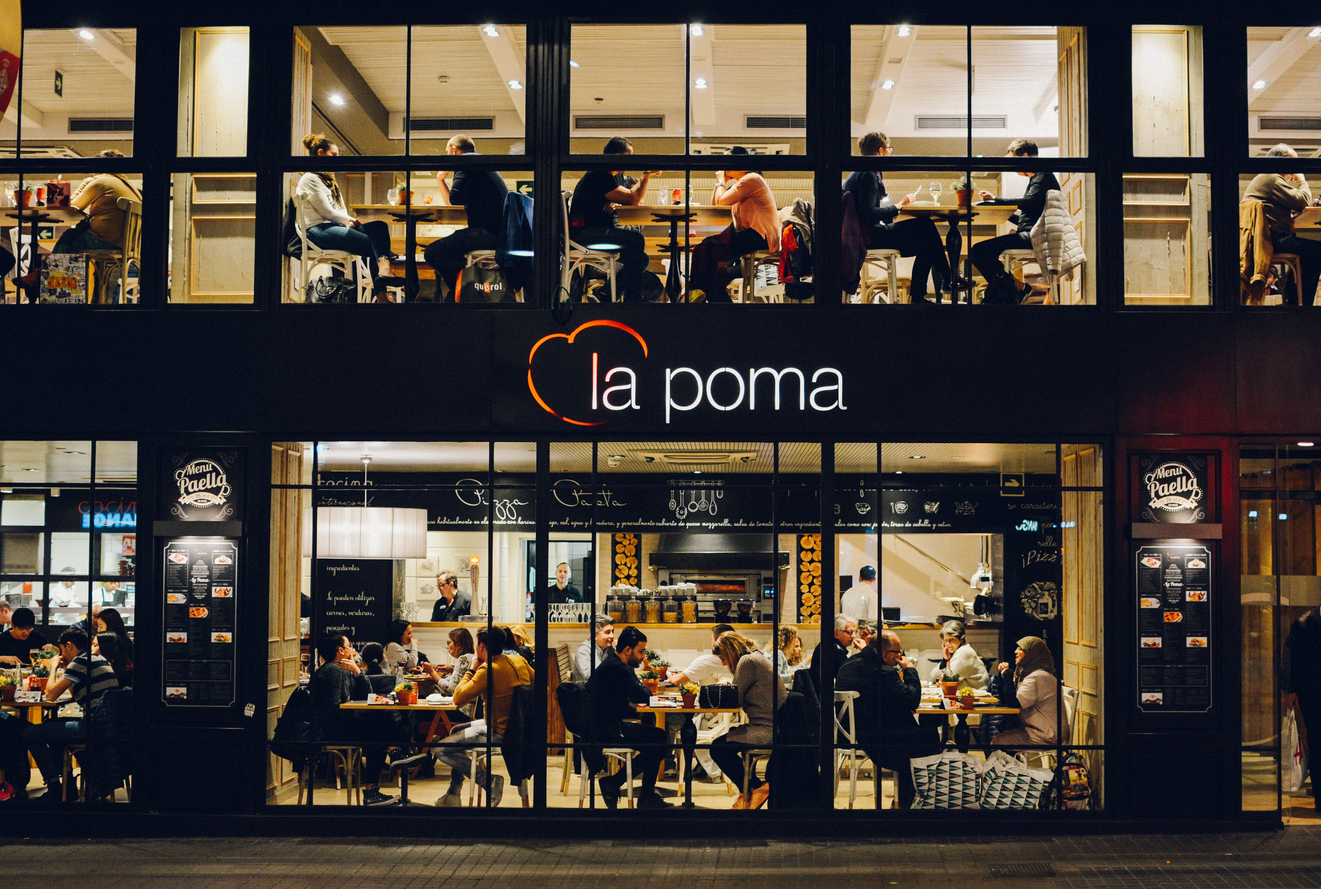
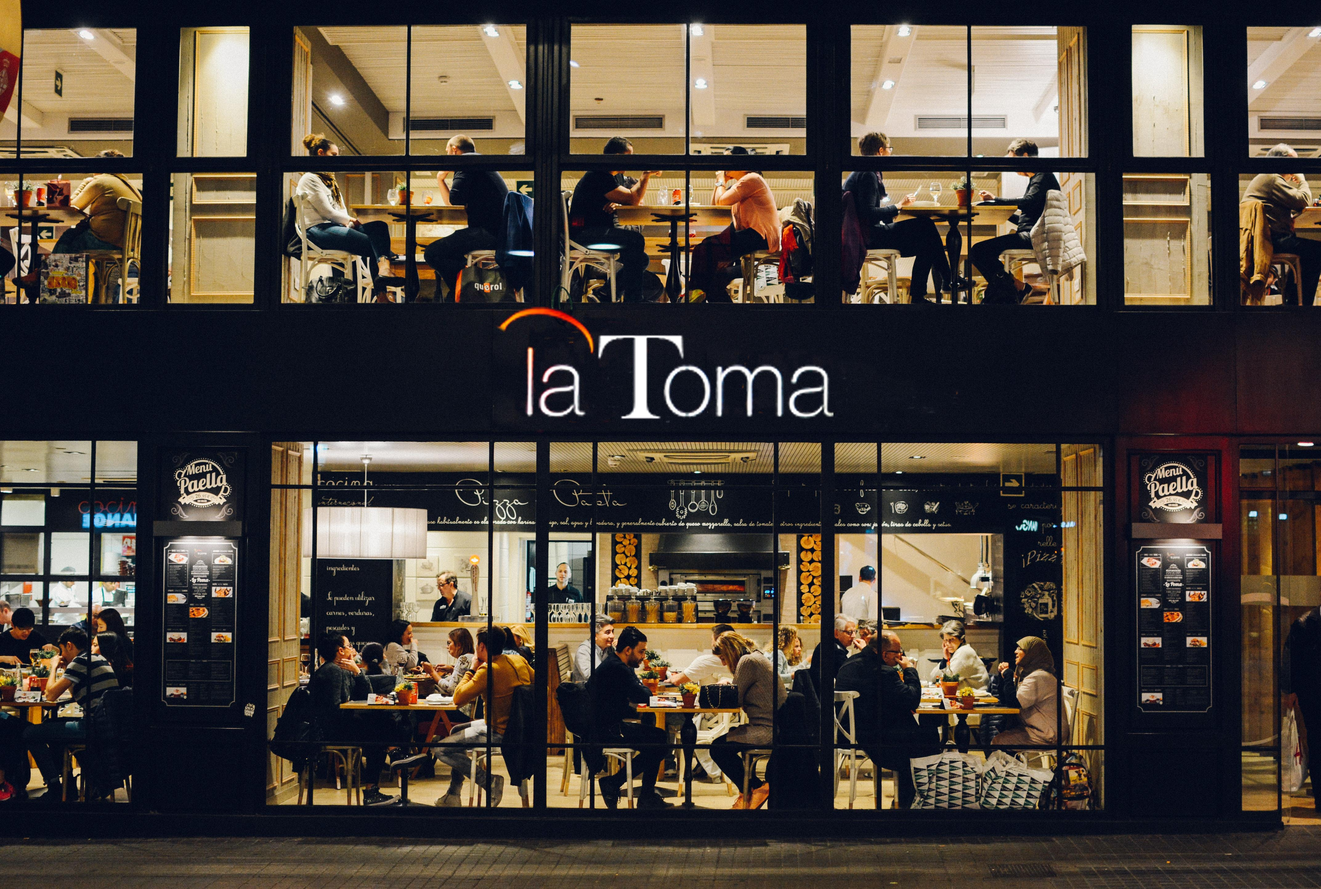
modifié + css

Changed region(s): [[0.3749, 0.343, 0.6561, 0.499]]

diff --git a/messtyles.css b/messtyles.css
@@ -8,4 +8,8 @@ nav {
 	float: right
 }
 /*.monlogo { }*/
-.navbar-nav .active{  color: yellow; background-color: #666; border-radius: 8px;}
+.navbar-nav { background: url(assets/img/fondmenu.png) no-repeat ;
+background-size: cover; border-radius: 8px; padding: 13px;}
+.navbar-nav .active{  color: yellow; background-color: yellowgreen; border-radius: 8px;}
+.bg-light {background-color: #8b0000 !important;}
+#monfooter { color: white; background-color: #000;}

diff --git a/restaurants.html b/restaurants.html
@@ -29,6 +29,7 @@
   <div class="row">
     <div class="col-12 text-center p-2"> Restaurants</div>
   </div>
+	<div class="row"><div class="col-12 text-center" id="monfooter"> la Toma &copy;2019</div></div>
 </div>
 
 <!-- Optional JavaScript --> 

diff --git a/contact.html b/contact.html
@@ -29,6 +29,7 @@
   <div class="row">
     <div class="col-12 text-center p-2"> contact</div>
   </div>
+	<div class="row"><div class="col-12 text-center" id="monfooter"> la Toma &copy;2019</div></div>
 </div>
 
 <!-- Optional JavaScript --> 

diff --git a/photos.html b/photos.html
@@ -29,6 +29,7 @@
   <div class="row">
     <div class="col-12 text-center p-2"> photos</div>
   </div>
+	<div class="row"><div class="col-12 text-center" id="monfooter"> la Toma &copy;2019</div></div>
 </div>
 
 <!-- Optional JavaScript --> 

diff --git a/index.html b/index.html
@@ -37,6 +37,7 @@
       </div>
     </div>
   </div>
+	<div class="row"><div class="col-12 text-center" id="monfooter"> la Toma &copy;2019</div></div>
 </div>
 
 <!-- Optional JavaScript --> 

diff --git a/carte.html b/carte.html
@@ -56,6 +56,7 @@
       </ul>
     </div>
   </div>
+	<div class="row"><div class="col-12 text-center" id="monfooter"> la Toma &copy;2019</div></div>
 </div>
 
 <!-- Optional JavaScript --> 

diff --git a/assets/js/moncodeJs.js b/assets/js/moncodeJs.js
@@ -1,6 +1,6 @@
 // JavaScript Document
 $("document").ready(function(){
 	
-	$("body").css({backgroundColor: "red"});
+	//$("body").css({backgroundColor: "red"});
 	
 }); 
